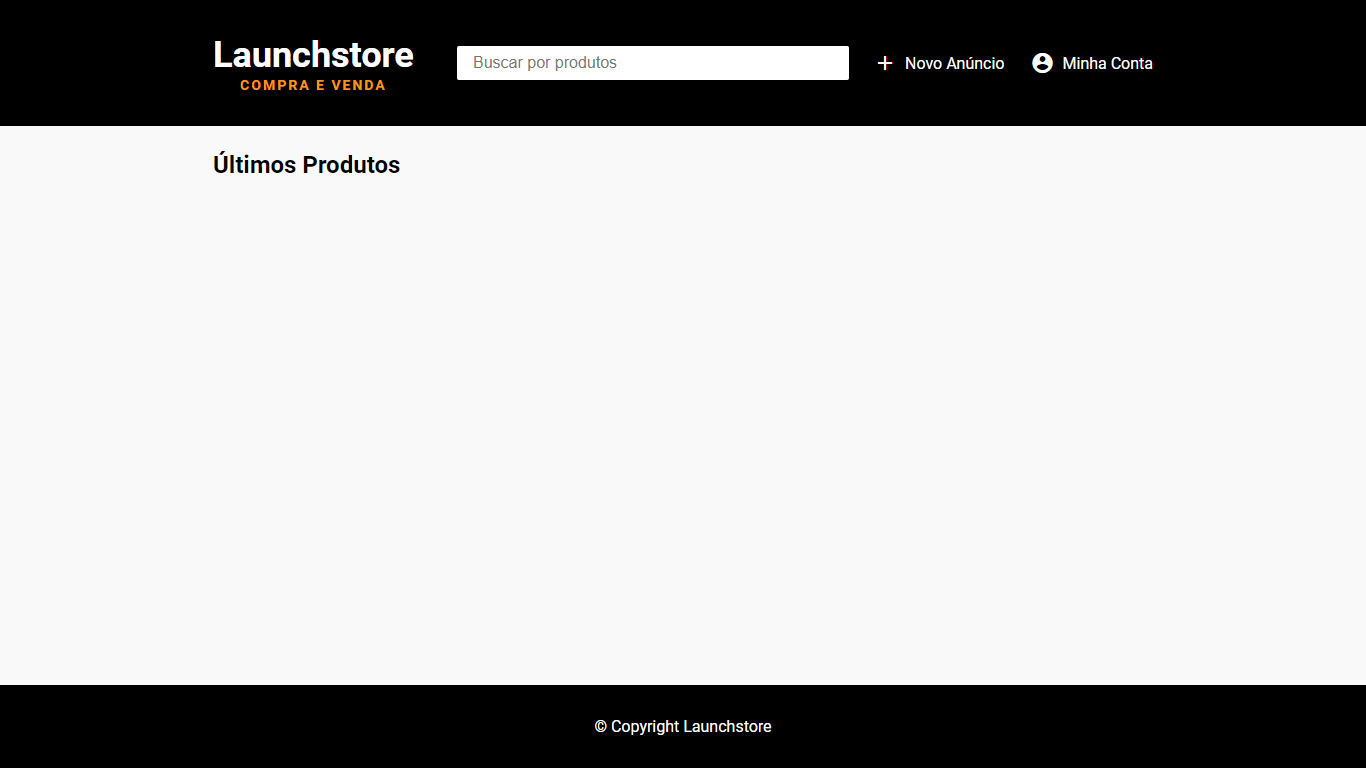
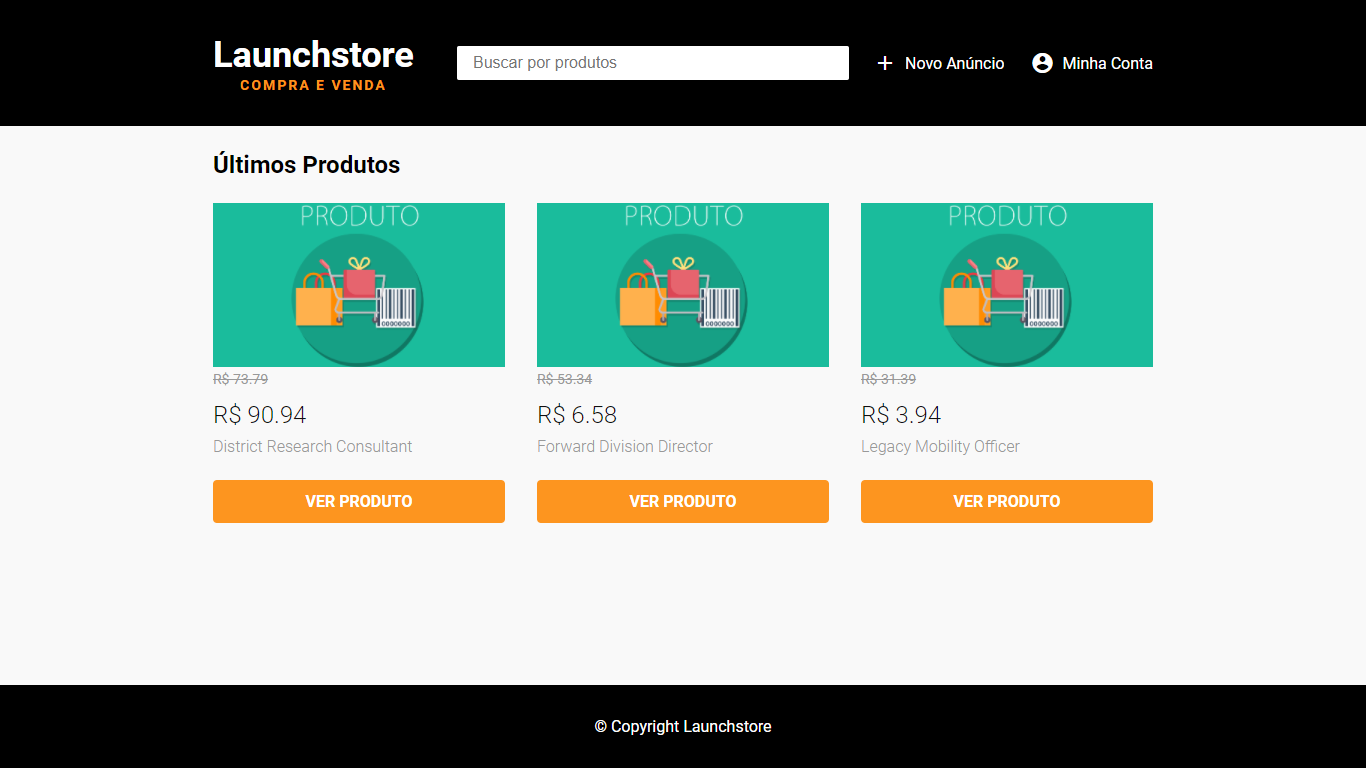
Feat. Using the Services of Products

diff --git a/src/app/controllers/productController.js b/src/app/controllers/productController.js
@@ -2,9 +2,9 @@ const Category = require('../models/Category')
 const Product = require('../models/Product')
 const File = require('../models/File')
 
-const { unlinkSync } = require('fs')
+const LoadProductService = require('../services/LoadProductService')
 
-const { formatPrice, date } = require('../../lib/utils')
+const { unlinkSync } = require('fs')
 
 module.exports = {
     async create(req, res){
@@ -63,28 +63,11 @@ module.exports = {
     async show(req, res){
 
         try {
-
-            const product = await Product.find(req.params.id)
+            const product = await LoadProductService.load('product', { 
+                where: { id: req.params.id } 
+            })
     
-            if(!product) return res.send("Produto não encontrado / Product not found")
-    
-            const { day, hour, minutes, month } = date(product.updated_at)
-    
-            product.published = {
-                day: `${day}/${month}`,
-                hour: `${hour}h${minutes}`
-            }
-    
-            product.oldPrice = formatPrice(product.old_price)
-            product.price = formatPrice(product.price)
-    
-            let files = await Product.files(product.id)
-            files = files.map(file => ({
-                ...file,
-                src: `${req.protocol}://${req.headers.host}${file.path.replace("public","")}`
-            }))
-    
-            return res.render("products/show", { product, files })
+            return res.render("products/show", { product })
 
         } catch (err) {
             console.log(err)
@@ -94,25 +77,14 @@ module.exports = {
     async edit(req, res){
 
         try {
-
-            const product = await Product.find(req.params.id)
-
-            if(!product) return res.send("Product not found!")
-    
-            product.old_price = formatPrice(product.old_price)
-            product.price = formatPrice(product.price)
+            const product = await LoadProductService.load('product', { 
+                where: { id: req.params.id } 
+            })
     
             // Carrega Categorias
             const categories = await Category.findAll()
-    
-            // Carrega Imagens
-            let files = await Product.files(product.id)
-            files = files.map(file => ({
-                ...file,
-                src: `${req.protocol}://${req.headers.host}${file.path.replace("public","")}`
-            }))
-    
-            return res.render("products/edit.njk", { product, categories, files })
+        
+            return res.render("products/edit.njk", { product, categories })
             
         } catch (err) {
             console.log(err)
@@ -161,8 +133,8 @@ module.exports = {
             req.body.price = req.body.price.replace(/\D/g, "")
     
             if(req.body.old_price != req.body.price){
-                const old_product = await Product.find(req.body.id)
-                req.body.old_price = old_product.rows[0].price
+                const oldProduct = await Product.find(req.body.id)
+                req.body.old_price = oldProduct.price
             }
     
             await Product.update(req.body.id, {

diff --git a/src/app/controllers/HomeController.js b/src/app/controllers/HomeController.js
@@ -1,32 +1,15 @@
-const Product = require('../models/Product')
-
-const { formatPrice } = require('../../lib/utils')
+const LoadProductService = require('../services/LoadProductService')
 
 module.exports = {
     async index(req, res){
-        
         try {
-            const products = await Product.findAll()
-    
-            if(!products) return res.send("Products not found")
-    
-            async function getImage(productId){
-                let files = await Product.files(productId)
-                files = files.map(file => `${req.protocol}://${req.headers.host}${file.path.replace('public', '')}`)
-                return files[0]
-            }
-    
-            const productsPromise = products.map(async product => {
-                product.img = await getImage(product.id)
-                product.oldPrice = formatPrice(product.old_price)
-                product.price = formatPrice(product.price)
-                return product
-            }).filter((product, index) => index > 2  ? false : true)
-    
-            const lastAdded = await Promise.all(productsPromise)
-    
-            return res.render("home/index", { products : lastAdded })
-            
+            //Pega todos os produtos atraves do Service
+            const allProducts = await LoadProductService.load('products')
+
+            //Cria um filtro para enviar apenas 3 produtos para o Index
+            const products = allProducts.filter((product, index) => index > 2  ? false : true)
+
+            return res.render("home/index", { products })
         } catch (err) {
             console.log(err)
         }

diff --git a/src/routes/products.js b/src/routes/products.js
@@ -8,15 +8,20 @@ const Search = require('../app/controllers/SearchController')
 const Product = require('../app/controllers/ProductController')
 
 // Rota para Pesquisa
-routes.get('/products/search', Search.index)
+routes.get('/search', Search.index)
 
 // Rotas para a Administração dos Produtos
 routes.get('/create', onlyUsers, Product.create)            // Redireciona para o formulário de cadastro
 routes.get('/:id', Product.show)                            // Exibe detalhes de um produto
 routes.get('/:id/edit', onlyUsers, Product.edit)            // Redireciona para o formulário de edição
 
-routes.post('/', onlyUsers, multer.array("photos", 6), Product.post)   // Recebe os dados do Form, verifica os arq. do campo "Photos" e cadastra
-routes.put('/', onlyUsers, multer.array("photos", 6), Product.put)     // Recebe os dados do Form, verifica os arq. do campo "Photos" e atualiza
-routes.delete('/', onlyUsers, Product.delete)                          // Deleta um produto
+// Recebe os dados do Form, verifica os arq. do campo "Photos" e cadastra
+routes.post('/', onlyUsers, multer.array("photos", 6), Product.post)
 
+// Recebe os dados do Form, verifica os arq. do campo "Photos" e atualiza
+routes.put('/', onlyUsers, multer.array("photos", 6), Product.put)  
+
+// Deleta um produto
+routes.delete('/', onlyUsers, Product.delete)    
+                      
 module.exports = routes

diff --git a/src/app/controllers/SearchController.js b/src/app/controllers/SearchController.js
@@ -1,12 +1,12 @@
 const Product = require('../models/Product')
 
-const { formatPrice } = require('../../lib/utils')
+const LoadProductService = require('../services/LoadProductService')
 
 module.exports = { 
     async index(req, res){
 
         try {
-            let results, params = {}
+            let params = {}
             const { filter, category } = req.query
 
             if(!filter) return res.redirect("/") 
@@ -16,19 +16,7 @@ module.exports = {
 
             let products = await Product.search(params)
 
-            async function getImage(productId){
-                let files = await Product.files(productId)
-                files = files.map(file => `${req.protocol}://${req.headers.host}${file.path.replace('public', '')}`)
-
-                return files[0]
-            }
-
-            const productsPromise = products.map(async product => {
-                product.img = await getImage(product.id)
-                product.oldPrice = formatPrice(product.old_price)
-                product.price = formatPrice(product.price)
-                return product
-            })
+            const productsPromise = products.map(LoadProductService.format)
 
             products = await Promise.all(productsPromise)
 

diff --git a/src/app/services/LoadProductService.js b/src/app/services/LoadProductService.js
@@ -38,7 +38,7 @@ const LoadService = {
         return this[service]()
     },
 
-    product(){
+    async product(){
         try {
             const product = await Product.findOne(this.filter)
             return format(product)
@@ -47,7 +47,7 @@ const LoadService = {
         }
     },
 
-    products(){
+    async products(){
         try {
             const products = await Product.findAll(this.filter)
             const productsPromise = products.map(format)
